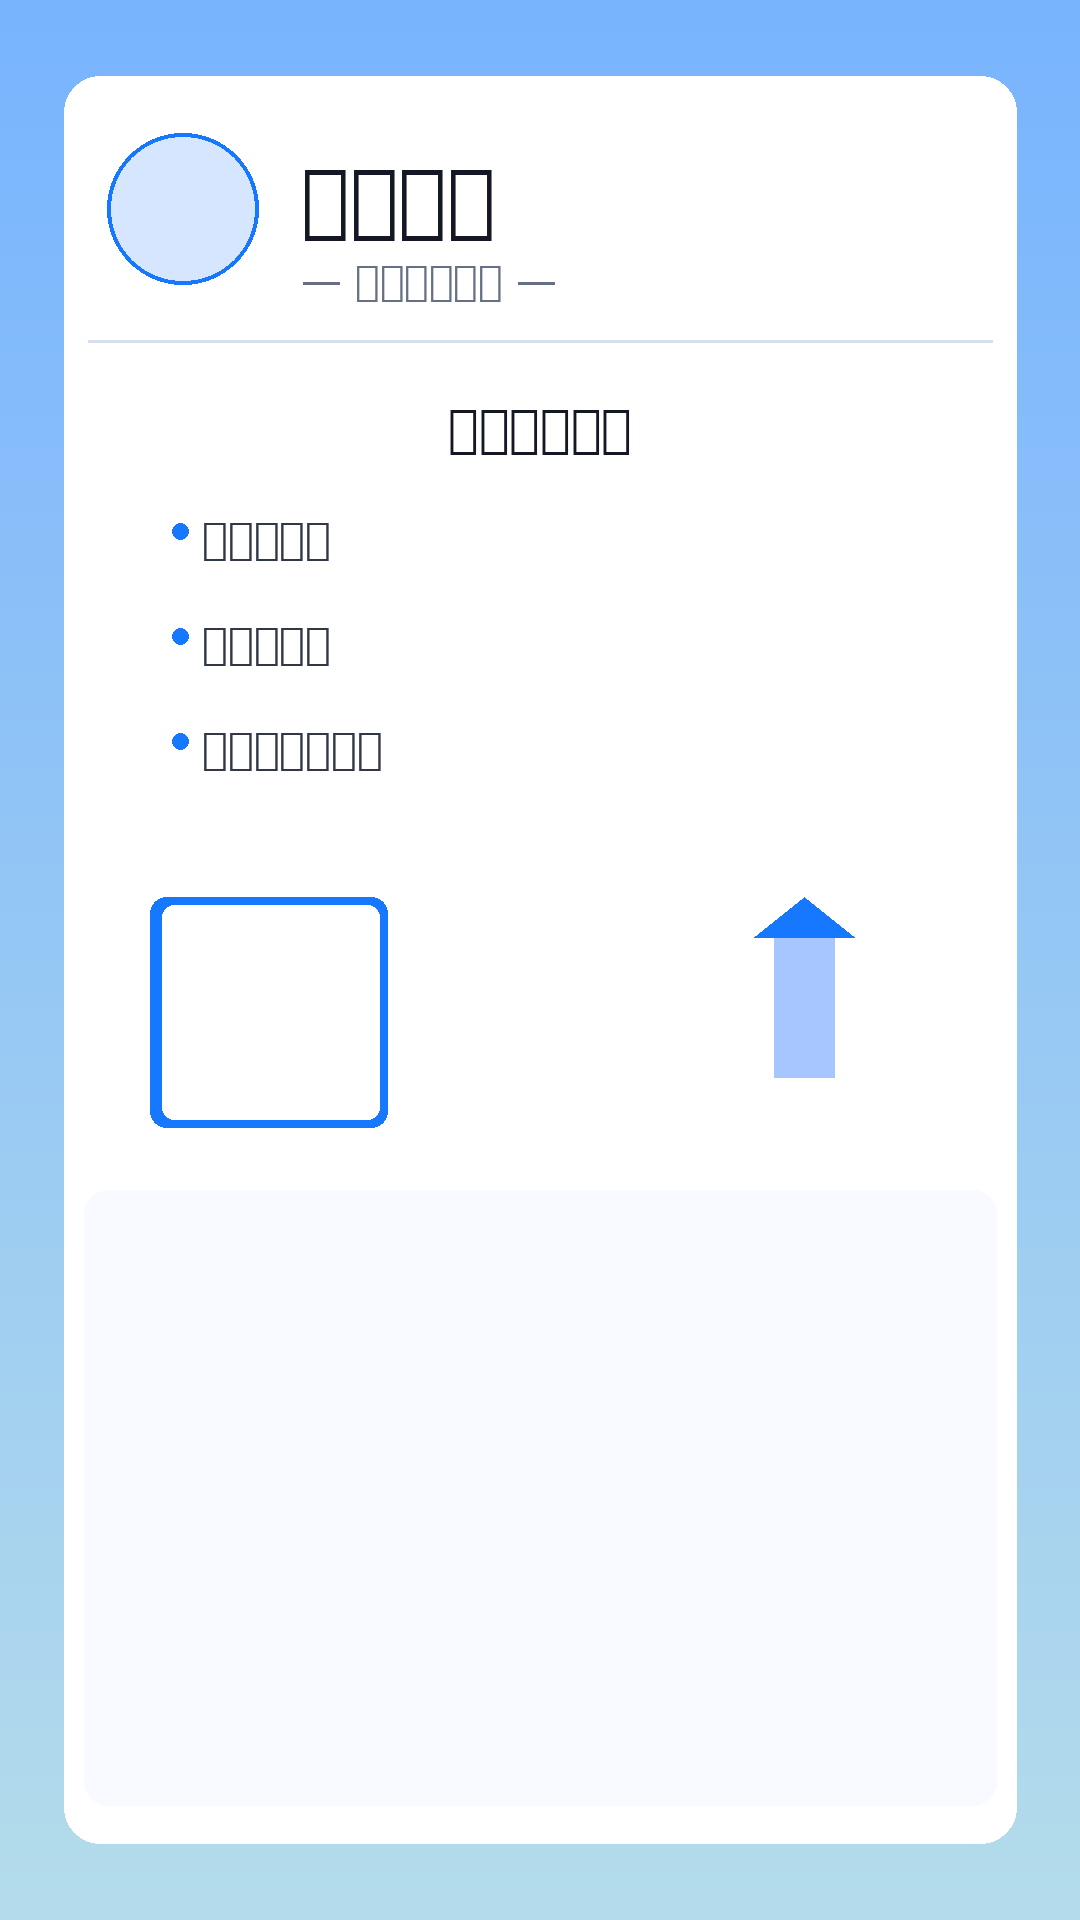
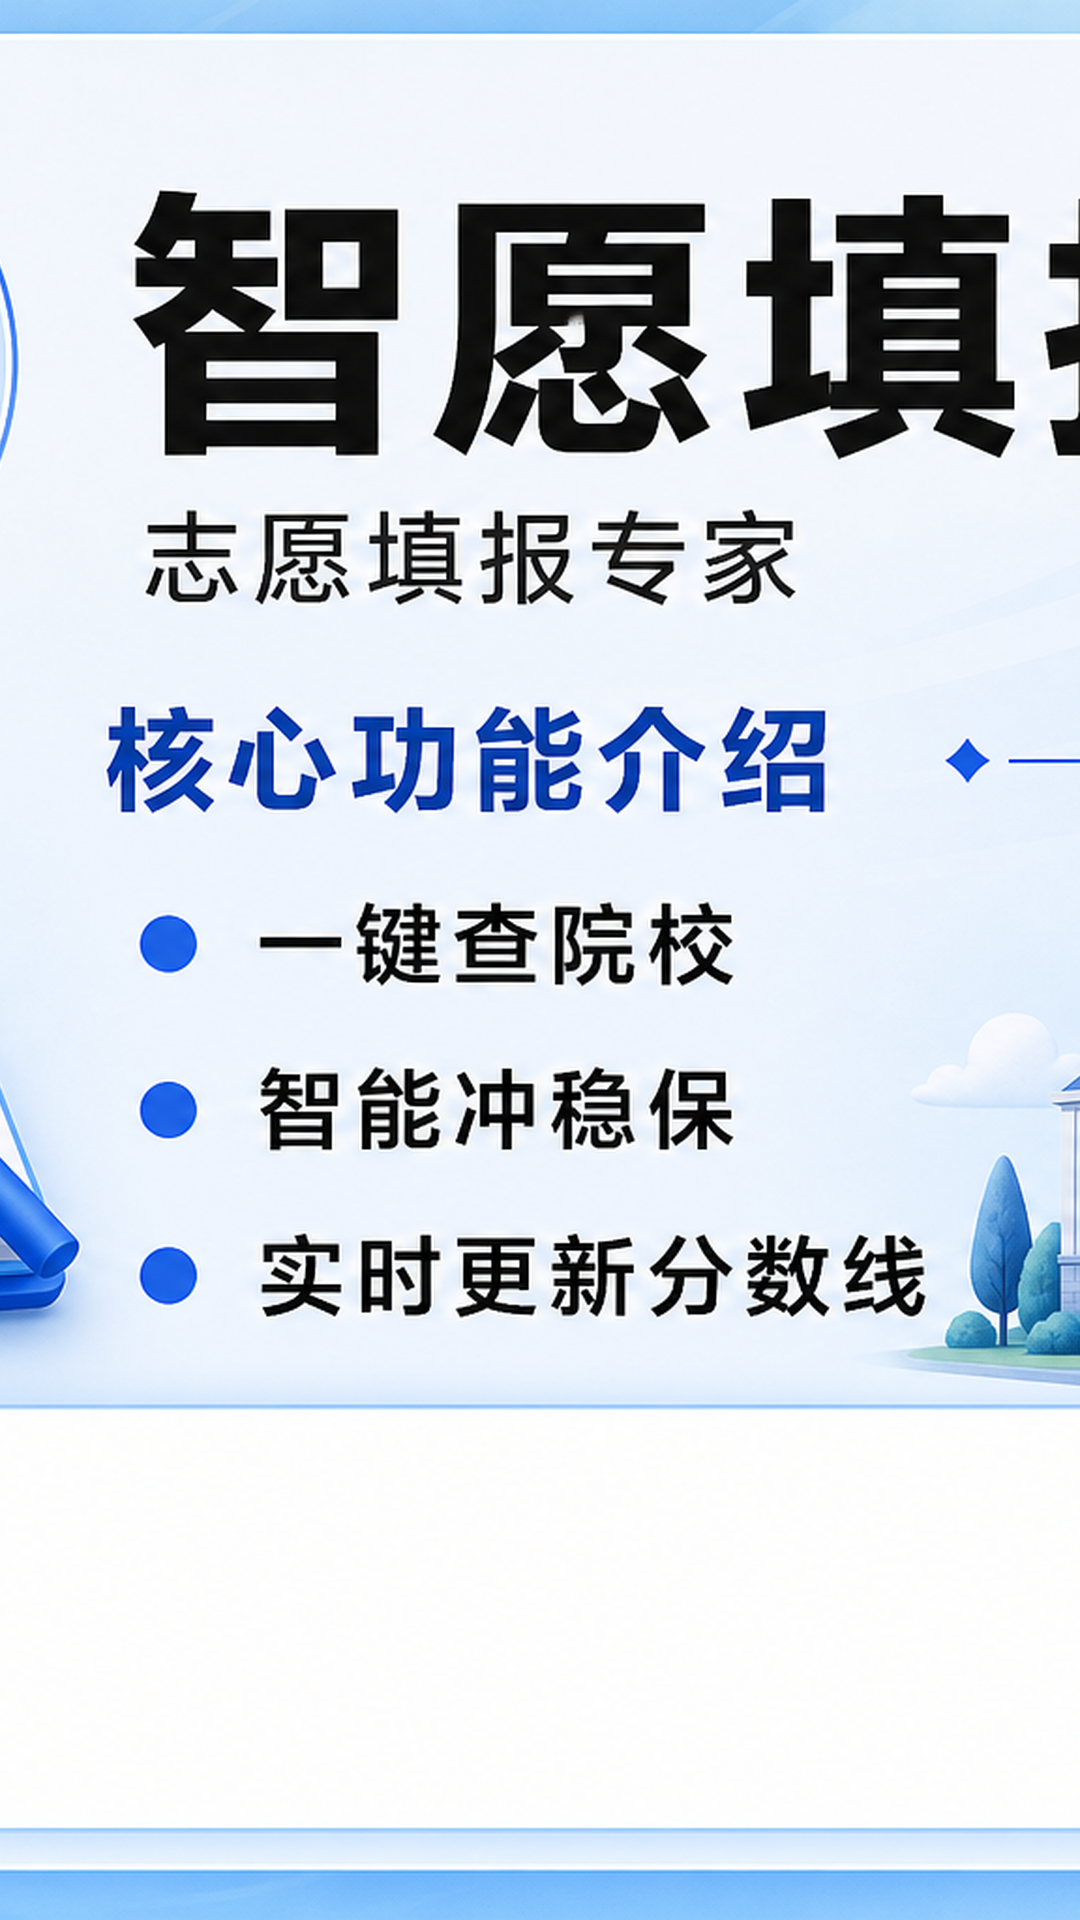
fix: 海报使用中文字体与完整背景图，修复方框乱码
- 内置文泉驿微米黑字体，Windows/Linux 均可正确渲染中文
- 取消代码绘制海报正文，改用完整背景图模板（设计元素保留在图中）
- 仅在底部叠加小程序码与推广码文案
- 更新竖版 1080×1920 背景模板

diff --git a/server/poster_service.py b/server/poster_service.py
@@ -1,38 +1,57 @@
-"""达人推广海报合成：竖版 9:16 背景 + 小程序码。"""
+"""达人推广海报合成：竖版 9:16 背景图 + 小程序码。"""
 
 from __future__ import annotations
 
 import io
 import os
+import sys
 from pathlib import Path
 from typing import Any
 
 from PIL import Image, ImageDraw, ImageFont
 
-DEFAULT_TEMPLATE_PATH = Path(__file__).resolve().parent / 'assets' / 'referral' / 'poster_template.png'
+ASSETS_DIR = Path(__file__).resolve().parent / 'assets'
+DEFAULT_TEMPLATE_PATH = ASSETS_DIR / 'referral' / 'poster_template.png'
+BUNDLED_FONT_REGULAR = ASSETS_DIR / 'fonts' / 'WenQuanYiMicroHei.ttf'
+BUNDLED_FONT_BOLD = ASSETS_DIR / 'fonts' / 'WenQuanYiMicroHei.ttf'
 POSTER_BRAND_NAME = os.environ.get('POSTER_BRAND_NAME', '智愿填报')
 POSTER_TAGLINE = os.environ.get('POSTER_TAGLINE', '志愿填报专家')
 POSTER_WIDTH = int(os.environ.get('POSTER_WIDTH', '1080'))
 POSTER_HEIGHT = int(os.environ.get('POSTER_HEIGHT', '1920'))
-POSTER_FEATURES = (
-    '一键查院校',
-    '智能冲稳保',
-    '实时更新分数线',
-)
+
+
+def _windows_font_dir() -> Path | None:
+    windir = os.environ.get('WINDIR') or os.environ.get('SystemRoot')
+    if not windir:
+        return None
+    fonts = Path(windir) / 'Fonts'
+    return fonts if fonts.exists() else None
 
 
 def _load_font(size: int, bold: bool = False) -> ImageFont.FreeTypeFont | ImageFont.ImageFont:
-    font_candidates = [
+    candidates: list[Path | str] = [
+        BUNDLED_FONT_BOLD if bold else BUNDLED_FONT_REGULAR,
+    ]
+    windows_fonts = _windows_font_dir()
+    if windows_fonts:
+        candidates.extend([
+            windows_fonts / ('msyhbd.ttc' if bold else 'msyh.ttc'),
+            windows_fonts / 'simhei.ttf',
+            windows_fonts / 'simsun.ttc',
+        ])
+    candidates.extend([
+        '/usr/share/fonts/truetype/wqy/wqy-microhei.ttc',
         '/usr/share/fonts/opentype/noto/NotoSansCJK-Bold.ttc' if bold else '/usr/share/fonts/opentype/noto/NotoSansCJK-Regular.ttc',
         '/usr/share/fonts/truetype/noto/NotoSansCJK-Regular.ttc',
-        '/usr/share/fonts/truetype/dejavu/DejaVuSans-Bold.ttf' if bold else '/usr/share/fonts/truetype/dejavu/DejaVuSans.ttf',
-    ]
-    for path in font_candidates:
-        if Path(path).exists():
-            try:
-                return ImageFont.truetype(path, size=size)
-            except OSError:
-                continue
+    ])
+    for path in candidates:
+        path = Path(path)
+        if not path.exists():
+            continue
+        try:
+            return ImageFont.truetype(str(path), size=size)
+        except OSError:
+            continue
     return ImageFont.load_default()
 
 
@@ -46,7 +65,6 @@ def poster_template_path() -> Path:
 
 
 def _fit_portrait_canvas(image: Image.Image, width: int = POSTER_WIDTH, height: int = POSTER_HEIGHT) -> Image.Image:
-    """将任意背景图裁切/缩放为竖版 9:16 画布。"""
     source = image.convert('RGBA')
     scale = max(width / source.width, height / source.height)
     resized = source.resize(
@@ -58,114 +76,30 @@ def _fit_portrait_canvas(image: Image.Image, width: int = POSTER_WIDTH, height: 
     return resized.crop((left, top, left + width, top + height))
 
 
-def render_default_poster_background(width: int = POSTER_WIDTH, height: int = POSTER_HEIGHT) -> Image.Image:
-    """绘制默认竖版推广海报背景（无二维码）。"""
-    canvas = Image.new('RGBA', (width, height), (232, 244, 255, 255))
-    draw = ImageDraw.Draw(canvas)
-
-    for y in range(height):
-        ratio = y / max(height - 1, 1)
-        color = (
-            int(120 + 60 * ratio),
-            int(180 + 40 * ratio),
-            int(255 - 20 * ratio),
-            255,
-        )
-        draw.line((0, y, width, y), fill=color)
-
-    margin = int(width * 0.06)
-    card_top = int(height * 0.04)
-    card_bottom = int(height * 0.96)
-    draw.rounded_rectangle(
-        (margin, card_top, width - margin, card_bottom),
-        radius=36,
-        fill=(255, 255, 255, 255),
-    )
-
-    avatar_size = int(width * 0.14)
-    avatar_x = margin + int(width * 0.04)
-    avatar_y = card_top + int(height * 0.03)
-    draw.ellipse(
-        (avatar_x, avatar_y, avatar_x + avatar_size, avatar_y + avatar_size),
-        fill=(214, 230, 255, 255),
-        outline=(22, 119, 255, 255),
-        width=4,
-    )
-
-    title_font = _load_font(int(width * 0.075), bold=True)
-    subtitle_font = _load_font(int(width * 0.038))
-    section_font = _load_font(int(width * 0.048), bold=True)
-    feature_font = _load_font(int(width * 0.04))
-
-    title_x = avatar_x + avatar_size + int(width * 0.04)
-    title_y = avatar_y + int(avatar_size * 0.12)
-    draw.text((title_x, title_y), POSTER_BRAND_NAME, fill=(20, 24, 36, 255), font=title_font)
-    draw.text((title_x, title_y + int(height * 0.055)), f'— {POSTER_TAGLINE} —', fill=(102, 112, 133, 255), font=subtitle_font)
-
-    divider_y = avatar_y + avatar_size + int(height * 0.03)
-    draw.line((margin + 24, divider_y, width - margin - 24, divider_y), fill=(214, 223, 238, 255), width=3)
-
-    section_y = divider_y + int(height * 0.03)
-    section_text = '核心功能介绍'
-    section_width = draw.textlength(section_text, font=section_font)
-    draw.text(((width - section_width) / 2, section_y), section_text, fill=(20, 24, 36, 255), font=section_font)
-
-    feature_y = section_y + int(height * 0.06)
-    bullet_x = margin + int(width * 0.1)
-    for index, feature in enumerate(POSTER_FEATURES):
-        y = feature_y + index * int(height * 0.055)
-        draw.ellipse((bullet_x, y + 10, bullet_x + 16, y + 26), fill=(22, 119, 255, 255))
-        draw.text((bullet_x + 30, y), feature, fill=(49, 55, 70, 255), font=feature_font)
-
-    book_x = margin + int(width * 0.08)
-    book_y = feature_y + int(height * 0.2)
-    draw.rounded_rectangle(
-        (book_x, book_y, book_x + int(width * 0.22), book_y + int(height * 0.12)),
-        radius=16,
-        fill=(22, 119, 255, 255),
-    )
-    draw.rounded_rectangle(
-        (book_x + 12, book_y + 8, book_x + int(width * 0.22) - 8, book_y + int(height * 0.12) - 8),
-        radius=12,
-        fill=(255, 255, 255, 255),
-    )
-
-    tower_x = width - margin - int(width * 0.28)
-    tower_y = book_y
-    draw.rectangle((tower_x + 60, tower_y + 40, tower_x + 120, tower_y + 180), fill=(167, 198, 255, 255))
-    draw.polygon(
-        [(tower_x + 40, tower_y + 40), (tower_x + 140, tower_y + 40), (tower_x + 90, tower_y)],
-        fill=(22, 119, 255, 255),
-    )
-
-    qr_zone_top = int(height * 0.62)
-    draw.rounded_rectangle(
-        (margin + 20, qr_zone_top, width - margin - 20, card_bottom - int(height * 0.02)),
-        radius=24,
-        fill=(248, 250, 255, 255),
-    )
-    return canvas
-
-
 def load_poster_background(template_path: Path | None = None) -> Image.Image:
     path = template_path or poster_template_path()
-    if path.exists():
-        with Image.open(path) as image:
-            return _fit_portrait_canvas(image)
-    return render_default_poster_background()
+    if not path.exists():
+        raise FileNotFoundError(
+            f'未找到海报背景图：{path}。请将竖版 9:16 设计稿放到 server/assets/referral/poster_template.png'
+        )
+    with Image.open(path) as image:
+        canvas = _fit_portrait_canvas(image)
+    if canvas.size != (POSTER_WIDTH, POSTER_HEIGHT):
+        canvas = canvas.resize((POSTER_WIDTH, POSTER_HEIGHT), Image.Resampling.LANCZOS)
+    return canvas
 
 
 def _qr_layout(canvas_size: tuple[int, int]) -> dict[str, int]:
     width, height = canvas_size
-    qr_size = int(width * 0.42)
+    qr_size = int(width * 0.36)
     qr_x = (width - qr_size) // 2
-    qr_y = int(height * 0.66)
+    qr_y = int(height * 0.68)
     return {
         'qr_size': qr_size,
         'qr_x': qr_x,
         'qr_y': qr_y,
-        'caption_y': qr_y + qr_size + int(height * 0.018),
-        'code_y': qr_y + qr_size + int(height * 0.048),
+        'caption_y': min(qr_y + qr_size + int(height * 0.016), height - int(height * 0.09)),
+        'code_y': min(qr_y + qr_size + int(height * 0.045), height - int(height * 0.05)),
     }
 
 
@@ -177,15 +111,13 @@ def compose_referral_poster(
     template_path: Path | None = None,
 ) -> bytes:
     canvas = load_poster_background(template_path)
-    if canvas.size != (POSTER_WIDTH, POSTER_HEIGHT):
-        canvas = _fit_portrait_canvas(canvas)
     draw = ImageDraw.Draw(canvas)
     layout = _qr_layout(canvas.size)
 
     qr_image = Image.open(io.BytesIO(qrcode_bytes)).convert('RGBA')
     qr_image = qr_image.resize((layout['qr_size'], layout['qr_size']), Image.Resampling.LANCZOS)
 
-    pad = max(10, layout['qr_size'] // 20)
+    pad = max(10, layout['qr_size'] // 22)
     box_size = layout['qr_size'] + pad * 2
     box_x = layout['qr_x'] - pad
     box_y = layout['qr_y'] - pad
@@ -228,10 +160,13 @@ def compose_referral_poster(
 
 def poster_metadata() -> dict[str, Any]:
     path = poster_template_path()
+    font_loaded = _load_font(28)
     return {
         'brand_name': POSTER_BRAND_NAME,
         'tagline': POSTER_TAGLINE,
         'template_path': str(path),
         'template_exists': path.exists(),
+        'font_bundled': BUNDLED_FONT_REGULAR.exists(),
+        'font_usable': not isinstance(font_loaded, ImageFont.ImageFont),
         'output_size': {'width': POSTER_WIDTH, 'height': POSTER_HEIGHT, 'ratio': '9:16'},
     }

diff --git a/server/test_poster_service.py b/server/test_poster_service.py
@@ -1,6 +1,6 @@
+import base64
 import io
 import unittest
-from pathlib import Path
 from unittest.mock import patch
 
 from PIL import Image, ImageDraw
@@ -8,10 +8,10 @@ from PIL import Image, ImageDraw
 from poster_service import (
     POSTER_HEIGHT,
     POSTER_WIDTH,
+    _load_font,
     compose_referral_poster,
     poster_metadata,
     poster_template_path,
-    render_default_poster_background,
 )
 
 
@@ -19,8 +19,6 @@ def _fake_qrcode_bytes(size: int = 200) -> bytes:
     image = Image.new('RGB', (size, size), 'white')
     draw = ImageDraw.Draw(image)
     draw.rectangle((10, 10, size - 10, size - 10), outline='black', width=4)
-    draw.line((10, 10, size - 10, size - 10), fill='black', width=3)
-    draw.line((size - 10, 10, 10, size - 10), fill='black', width=3)
     buffer = io.BytesIO()
     image.save(buffer, format='PNG')
     return buffer.getvalue()
@@ -30,13 +28,15 @@ class PosterServiceTests(unittest.TestCase):
     def test_template_exists(self):
         self.assertTrue(poster_template_path().exists())
 
-    def test_default_background_is_portrait_9_16(self):
-        image = render_default_poster_background()
-        self.assertEqual(image.size, (POSTER_WIDTH, POSTER_HEIGHT))
-        self.assertGreater(POSTER_HEIGHT, POSTER_WIDTH)
-        self.assertAlmostEqual(POSTER_WIDTH / POSTER_HEIGHT, 9 / 16, places=2)
+    def test_bundled_font_renders_chinese(self):
+        font = _load_font(32)
+        image = Image.new('RGB', (320, 80), 'white')
+        draw = ImageDraw.Draw(image)
+        draw.text((10, 20), '智愿填报', fill='black', font=font)
+        pixels = image.getdata()
+        self.assertTrue(any(pixel != (255, 255, 255) for pixel in pixels))
 
-    def test_compose_referral_poster_returns_png(self):
+    def test_compose_referral_poster_returns_portrait_png(self):
         poster = compose_referral_poster(
             _fake_qrcode_bytes(),
             invite_code='ABC123',
@@ -48,9 +48,9 @@ class PosterServiceTests(unittest.TestCase):
 
     def test_poster_metadata(self):
         meta = poster_metadata()
-        self.assertEqual(meta['brand_name'], '智愿填报')
-        self.assertEqual(meta['output_size']['width'], POSTER_WIDTH)
-        self.assertEqual(meta['output_size']['height'], POSTER_HEIGHT)
+        self.assertTrue(meta['template_exists'])
+        self.assertTrue(meta['font_bundled'])
+        self.assertTrue(meta['font_usable'])
         self.assertEqual(meta['output_size']['ratio'], '9:16')
 
     @patch('referral_service.generate_poster_qrcode', return_value=_fake_qrcode_bytes())
@@ -58,8 +58,7 @@ class PosterServiceTests(unittest.TestCase):
         from referral_service import poster_image_base64
 
         encoded = poster_image_base64('TEST01', '李老师')
-        self.assertTrue(encoded)
-        raw = __import__('base64').b64decode(encoded)
+        raw = base64.b64decode(encoded)
         self.assertTrue(raw.startswith(b'\x89PNG'))
 
 